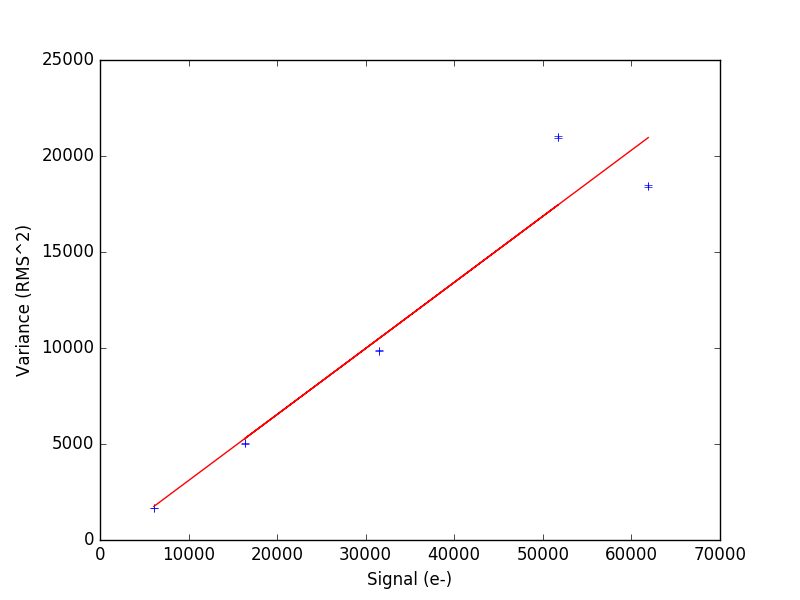
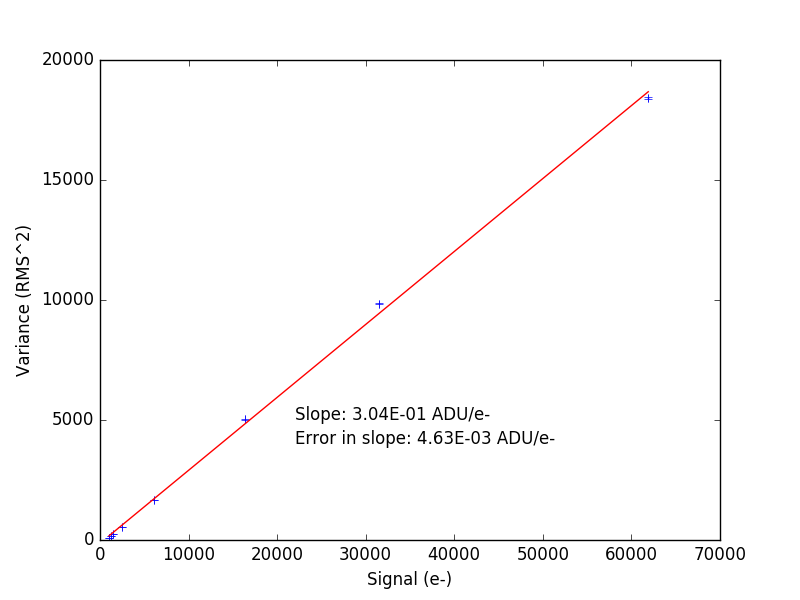
added slope to gain plot, increased output details

diff --git a/gain.py b/gain.py
@@ -18,7 +18,8 @@ def construct_data_array(filename_prefix, n_images):
     da = np.array(da, dtype=float)
     return da
 
-prefix_list = ['flat_1e4ms_', 'flat_1e5ms_', 'flat_3e4ms_', 'flat_6e4ms_', 'flat_12e4ms_']
+prefix_list = ['flat_100ms_', 'flat_500ms_', 'flat_1000ms_', 'flat_3000ms_', 'flat_1e4ms_', 'flat_3e4ms_',
+               'flat_6e4ms_', 'flat_12e4ms_']
 y = []
 x = []
 yerr = []
@@ -41,13 +42,15 @@ for prefix in prefix_list:
     x.append(np.median(mean_array))
     xerr.append(mean_err)
 
-print y
-print yerr
-print x
-print xerr
+for i in range(len(prefix_list)):
+    print i
+    print "Variance: ", '%.3f' % y[i]
+    print "Variance Error: ", yerr[i]
+    print "Mean Signal: ", '%.3f' % x[i]
+    print "Signal error: ", xerr[i]
 
 p, V = np.polyfit(x, y, 1, cov=True)
-print "Slope: ", p[0]
+print "\nSlope: ", p[0]
 print "Error in slope: ", np.sqrt(V[0][0])
 
 yfit = []
@@ -58,6 +61,8 @@ for item in x:
 fig = plt.figure()
 ax = fig.add_subplot(111)
 plt.errorbar(x, y, xerr=xerr, yerr=yerr, fmt='none', ecolor='b')
+ax.annotate('Slope: '+str("%.2E" % p[0])+' ADU/e-', xy=(22000, 5000))
+ax.annotate("Error in slope: "+str("%.2E" % np.sqrt(V[0][0]))+' ADU/e-', xy=(22000, 4000))
 plt.plot(x, yfit, 'r')
 plt.xlabel('Signal (e-)')
 plt.ylabel('Variance (RMS^2)')
